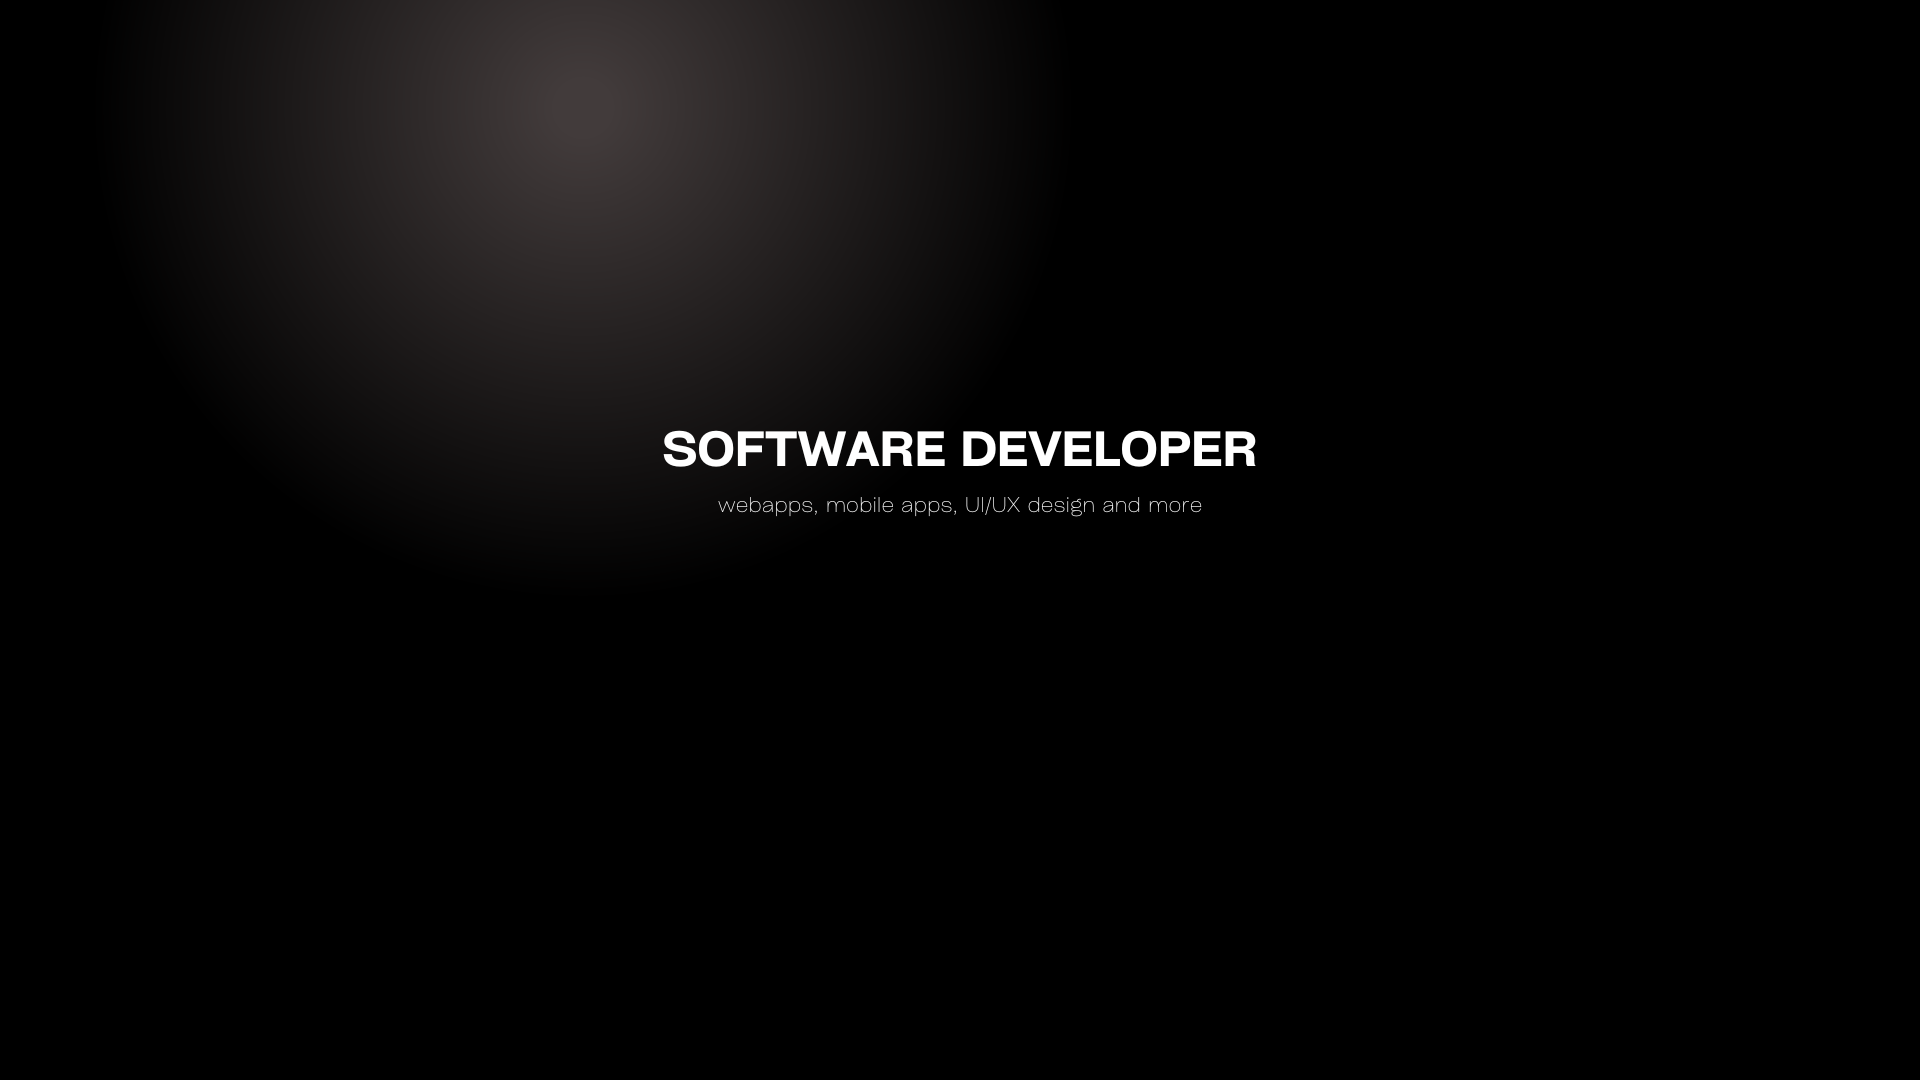
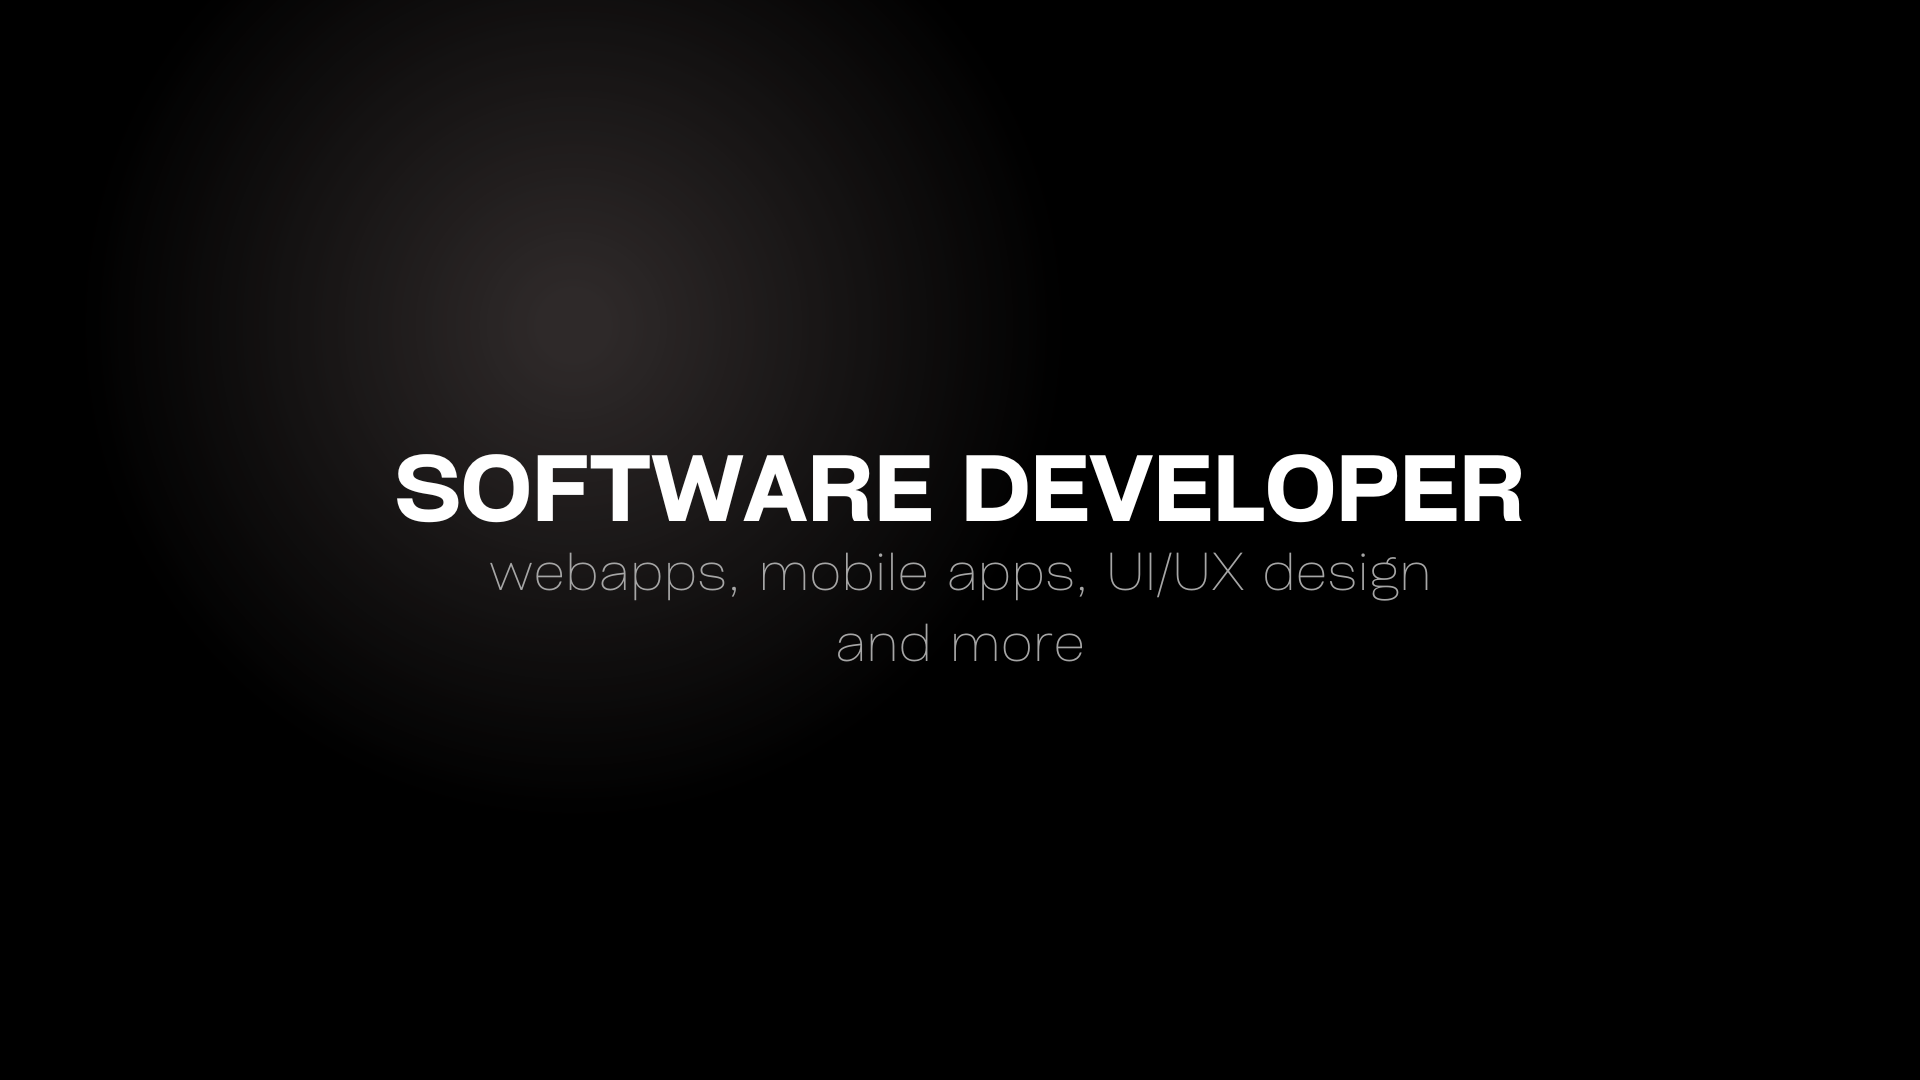
refactor(LCC-14): cambiate immagine sfondo homepage ed eliminato componente carosello

diff --git a/src/pages/HomePage.vue b/src/pages/HomePage.vue
@@ -2,10 +2,17 @@
     <div>
         <v-row>
             <v-col cols="12">
-                <div class="grid-content bg-purple-dark"><app-carosello></app-carosello></div>
+                <div style="padding-top: 10px;">
+                    <v-img
+                    src="../assets/pictures/cover.png"
+                    max-height="500"
+                    max-width="100%"
+                    contain
+                    class="cover-image"
+                    ></v-img>
+                </div>
             </v-col>
         </v-row>
-
         <v-row style="text-align: -webkit-center;">
             <!-- Card 1 -->
             <v-col xs="12" sm="6" md="4" class="pa-2">
@@ -138,13 +145,9 @@
 </template>
 
 <script>
-import AppCarosello from '@/components/AppCarosello.vue';
 import koivisto from '../assets/pictures/koivisto.png'
 
 export default {
-    components: {
-        appCarosello: AppCarosello
-    },
     data() {
         return {
             showFirstCard: false,
